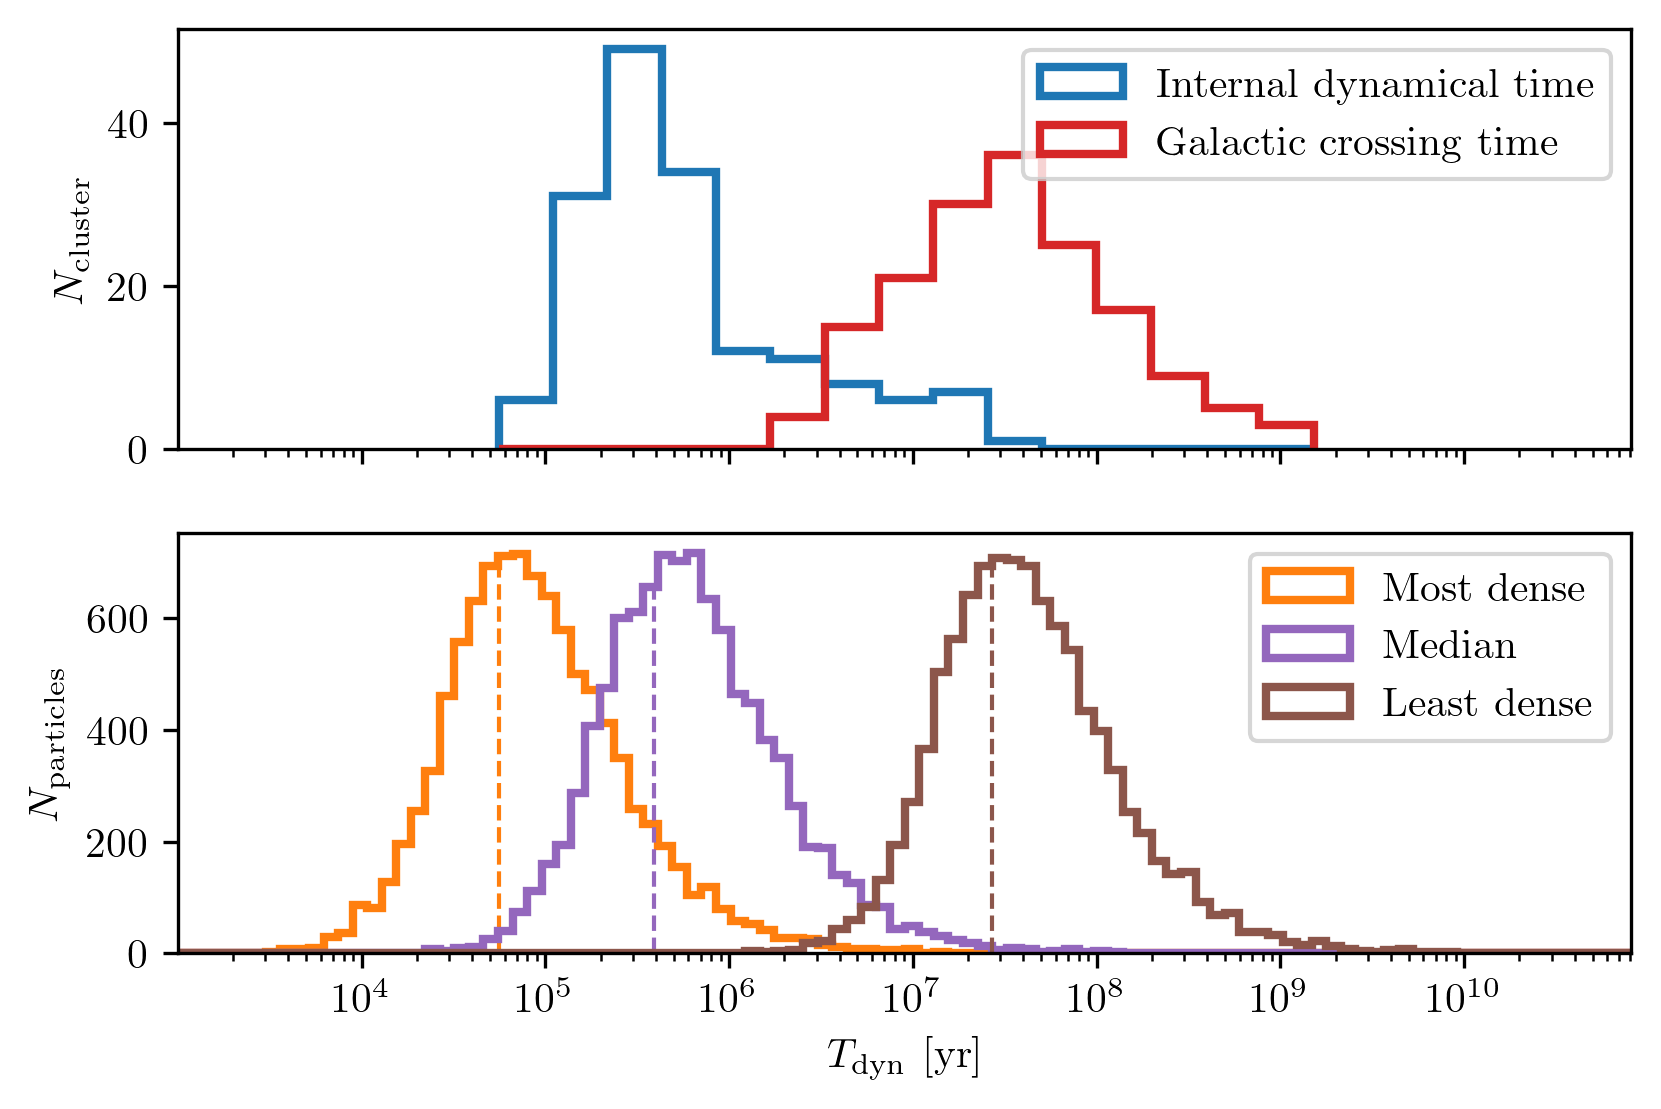
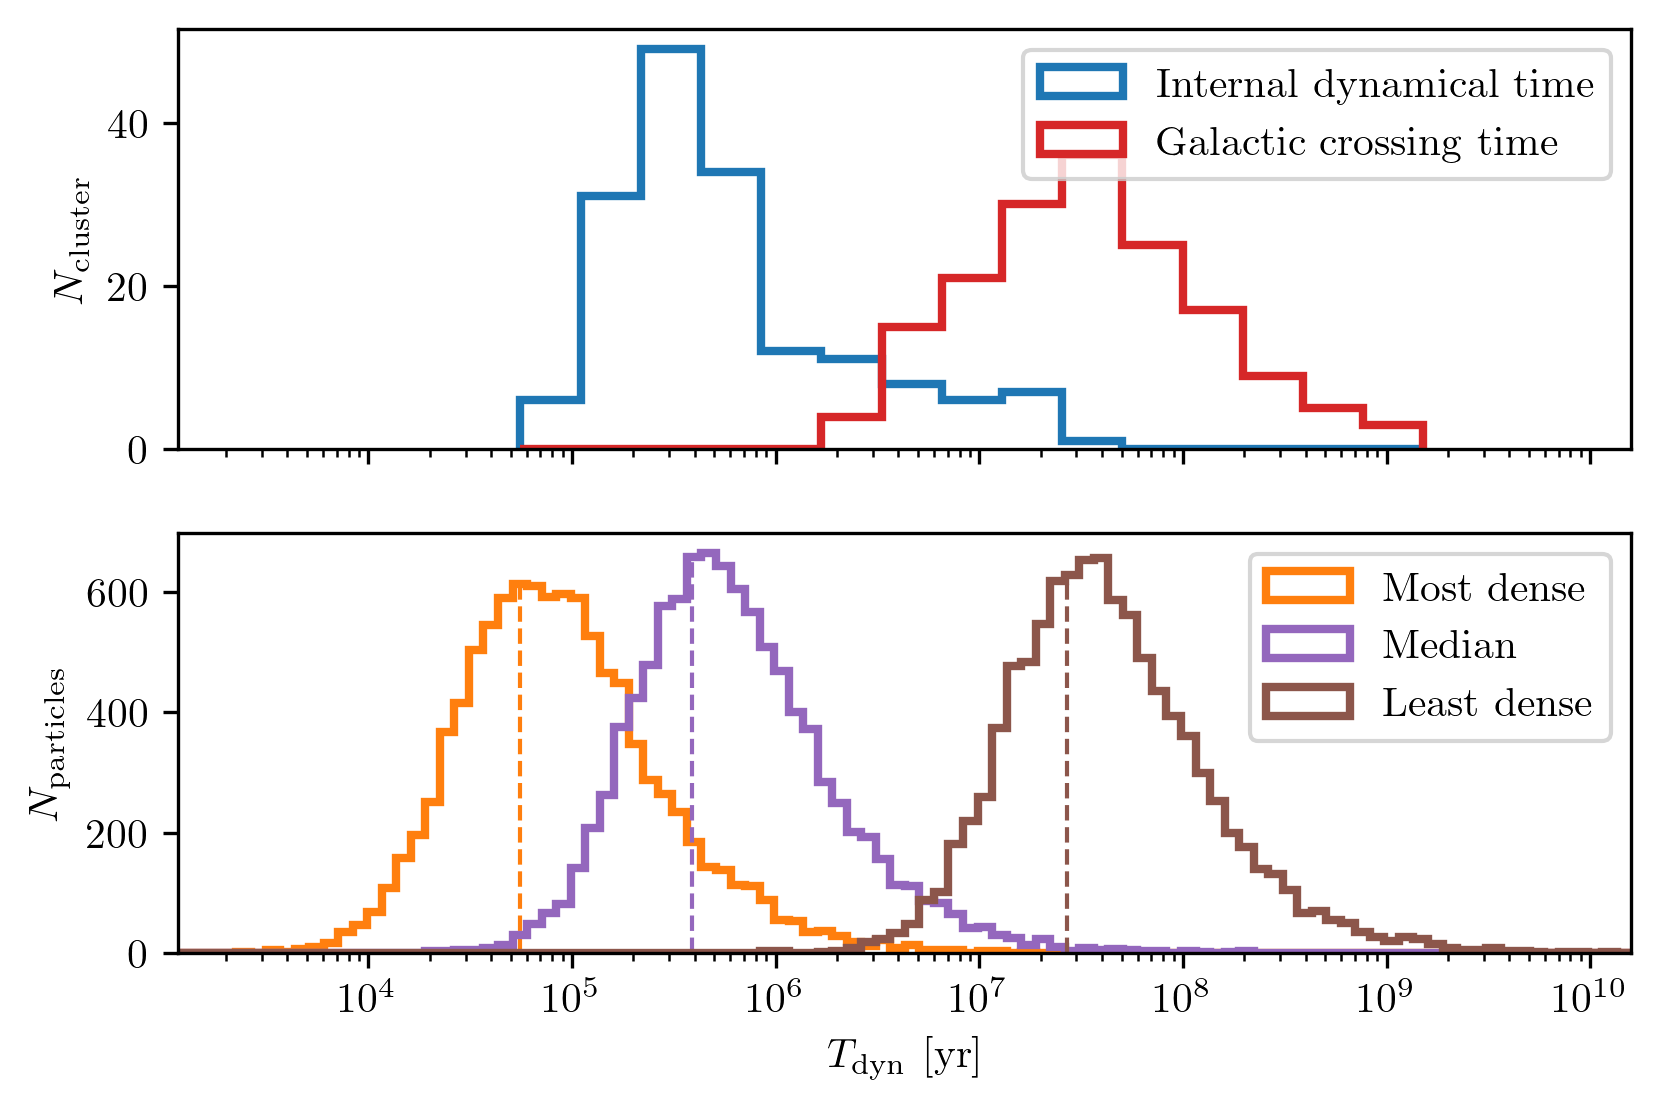
made fig for stability of a GC based on time ratio

diff --git a/docs/numerics.html b/docs/numerics.html
@@ -514,8 +514,7 @@ class="math inline">\(q_{i+1}\)</span> (denoted <span
 class="math inline">\(p_{i+1/2}\)</span>) is used to advance the
 position, and then the average force (derived from the potential) is
 used to update the momentum. In Cartesian coordinates—used throughout
-this thesis—the leapfrog algorithm can be rewritten in terms of
-grid-aligned quantities:</p>
+this thesis—the leapfrog algorithm can be written as:</p>
 <p><span class="math display">\[\begin{aligned}
         x_{i+1/2} &amp;= x_i + \frac{1}{2} \dot{x}_i \Delta t , \\
         \ddot{x} &amp;= -\nabla \Phi(x_{i+1/2}), \\
@@ -523,10 +522,7 @@ grid-aligned quantities:</p>
         x_{i+1} &amp;= x_{i+1/2} + \frac{1}{2} \dot{x}_{i+1} \Delta t.
 \\
     
-\end{aligned}\]</span> This formulation highlights how the leapfrog
-method naturally incorporates the second-order accuracy and
-time-reversibility essential for modeling gravitational systems over
-long timescales. As I will show in the next section, the leapfrog
+\end{aligned}\]</span> As I will show in the next section, the leapfrog
 algorithm is sufficient for the problems that I solve. However, the
 question of computational efficiency and numerical accuracy is ever
 present. Leapfrog uses uses the two local points about the position and
@@ -647,8 +643,8 @@ is the subject of the next section.</p>
 Computation Time</h1>
 <p>To ensure the quality of the integration, I perform two main checks.
 The first is to ensure that the initial orbital energy of a given
-particle is conserved to high precision. At each timestep, the error in
-the energy conservation is: <span
+particle is conserved to high precision. At each timestep, the relative
+error in the energy conservation is: <span
 class="math inline">\(\mathrm{err}(E_i) = \left|\frac{E_i -
 E_0}{E_0}\right|\)</span>, where <span
 class="math inline">\(E_0\)</span> is the initial energy and <span
@@ -857,7 +853,7 @@ problem but they have two very different time scales. This is the case
 with the globular clusters... Look at Fig. <a
 href="#fig:GCsystemCharacteristicTimes" data-reference-type="ref"
 data-reference="fig:GCsystemCharacteristicTimes">6</a>. I show a couple
-different distirbutions. The top</p>
+different distirbutions.</p>
 <figure id="fig:GCsystemCharacteristicTimes">
 <img src="images/GCsystemCharacteristicTimes.png" />
 <figcaption>The top panel shows orbital characteristic times of the
@@ -865,12 +861,11 @@ globular cluster system, while the bottom panel shows internal
 characteristic times for three selected clusters. <em>Top</em>: The red
 distribution shows the orbital crossing time of each cluster within the
 galaxy, while the blue distribution shows a characteristic internal
-dynamical time — roughly, the time it takes for a star in the cluster
-core to complete an orbit. <em>Bottom</em>: The distribution of crossing
-times for 1,000 sampled star particles within the globular clusters with
-the smallest, median, and largest internal dynamical times. These times
-are inversely proportional to the clusters’ densities and are computed
-with isotropic Plummer distributions.</figcaption>
+dynamical time. <em>Bottom</em>: The distribution of crossing times for
+1,000 sampled star particles within the globular clusters with the
+smallest, median, and largest internal dynamical times. These times are
+inversely proportional to the clusters’ densities and are computed with
+isotropic Plummer distributions.</figcaption>
 </figure>
 <p>How do you choose the number of timesteps?</p>
 <p>The first is to recognize that</p>
